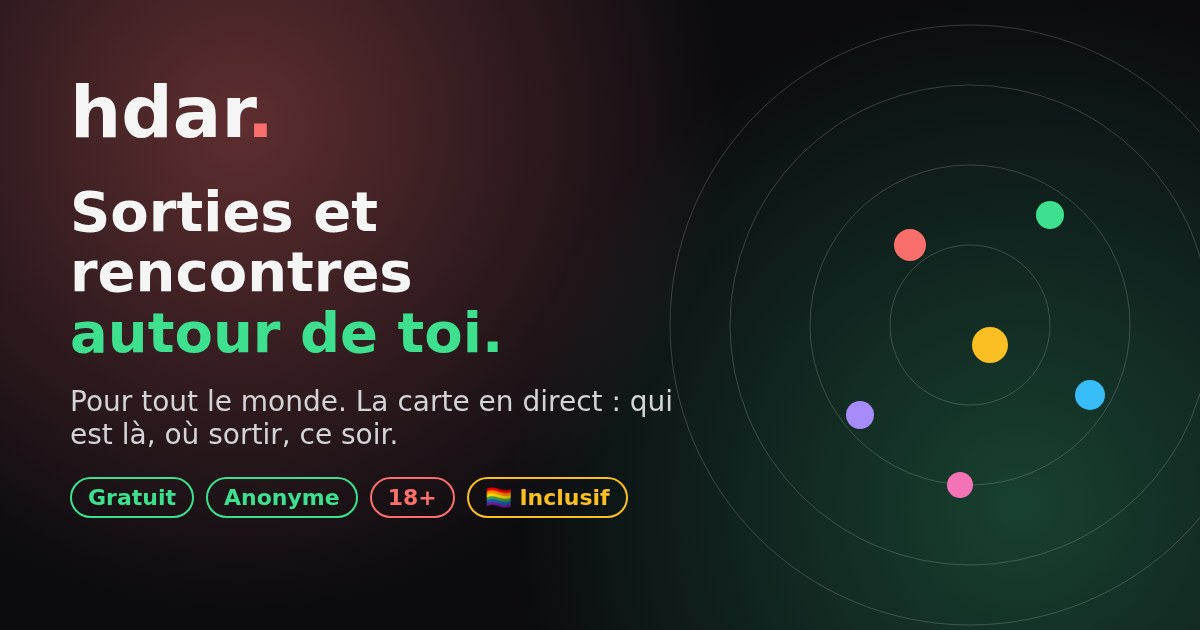
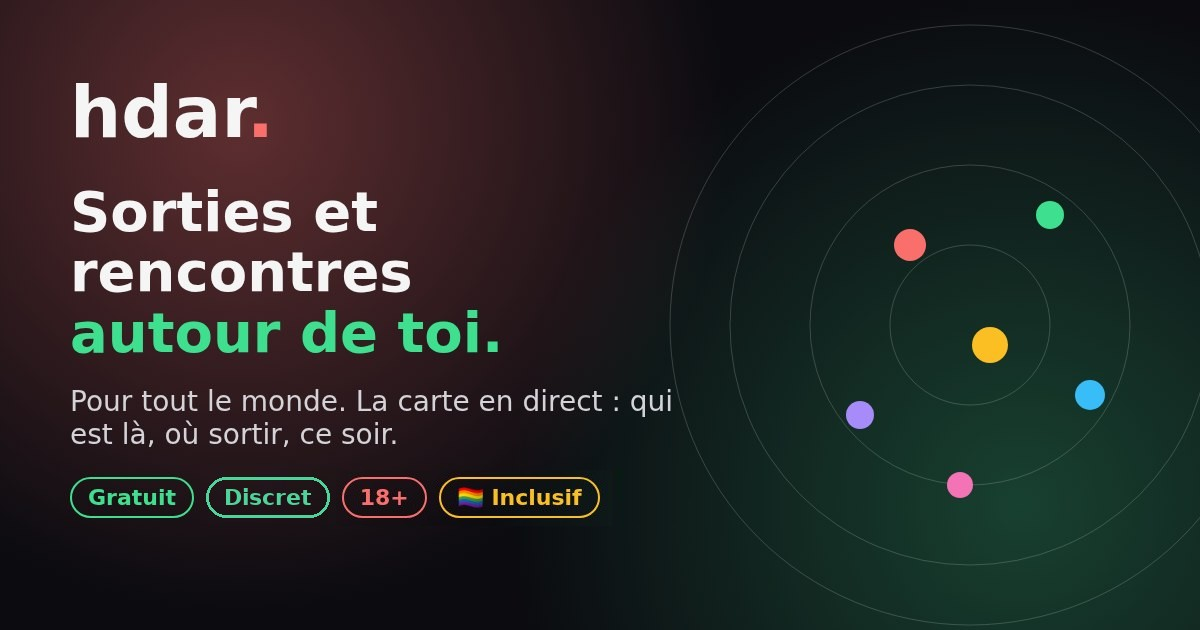
Provenance ?ref= (visites agrégées, profils, onglet admin) + aperçus de partage « Discret » (og.jpg?v=discret2, og-invite) — migration v77 non appliquée

Changed region(s): [[0.185, 0.754, 0.5242, 0.8444]]

diff --git a/src/components/hdar/admin-insights.tsx b/src/components/hdar/admin-insights.tsx
@@ -20,8 +20,7 @@ import {
   type AdminSalonMsg,
   type AdminVisitors,
   type Breakdown,
-  type VisitorRow,
-} from "@/lib/hdar/live";
+  type VisitorRow, adminRefs, type AdminRefs, type RefRow } from "@/lib/hdar/live";
 
 function useLoad<T>(load: () => Promise<T>, everyMs = 0) {
   const [data, setData] = useState<T | null>(null);
@@ -685,6 +684,71 @@ function AdminThread({ adminKey, a, b }: { adminKey: string; a: string; b: strin
           </div>
         </div>
       ))}
+    </div>
+  );
+}
+
+/** Provenance : visites arrivées par un lien ?ref=, profils créés et conversion, au total et par jour. */
+export function RefsTab({ adminKey }: { adminKey: string }) {
+  const [days, setDays] = useState(30);
+  const load = useCallback(() => adminRefs(adminKey, days), [adminKey, days]);
+  const { data, error } = useLoad<AdminRefs>(load, 60_000);
+  const conv = (r: RefRow) => (r.conv == null ? "—" : `${r.conv} %`);
+  const visits = (data?.total ?? []).reduce((n, r) => n + r.visits, 0);
+  const profiles = (data?.total ?? []).reduce((n, r) => n + r.profiles, 0);
+  return (
+    <div className="space-y-4">
+      <Seg value={days} onChange={setDays} options={[[1, "Aujourd'hui"], [7, "7 j"], [30, "30 j"], [90, "90 j"]]} />
+      <ErrorNote error={error} />
+      <p className="text-xs text-muted">
+        Liens du type hdar.chat/?ref=next1 (compatible avec &code=FIRST). 1 visite = 1 appareil arrivé par le lien, au plus 1 fois par jour.
+        Aucune IP ni identifiant d'appareil n'est enregistré ; un profil est rattaché à la 1re ref vue dans les 30 jours.
+      </p>
+      {data && (
+        <>
+          <div className="grid grid-cols-3 gap-2">
+            <Tile label="Visites" value={visits} />
+            <Tile label="Profils créés" value={profiles} />
+            <Tile label="Refs" value={data.total.length} hint={visits ? `${Math.round((1000 * profiles) / visits) / 10} % conversion` : undefined} />
+          </div>
+          <RefTable title="Total par ref" rows={data.total} conv={conv} />
+          <RefTable title="Par jour" rows={data.daily} conv={conv} day />
+        </>
+      )}
+    </div>
+  );
+}
+
+function RefTable({ title, rows, conv, day }: { title: string; rows: (RefRow & { day?: string })[]; conv: (r: RefRow) => string; day?: boolean }) {
+  return (
+    <div className="rounded-2xl border border-line bg-surface p-4">
+      <h3 className="mb-2 font-display font-bold">{title}</h3>
+      {rows.length === 0 ? (
+        <p className="text-sm text-muted">Aucune visite par lien ?ref= sur la période.</p>
+      ) : (
+        <table className="w-full text-sm">
+          <thead className="text-left text-xs text-muted">
+            <tr>
+              {day && <th className="py-1">Jour</th>}
+              <th className="py-1">Ref</th>
+              <th className="py-1 text-right">Visites</th>
+              <th className="py-1 text-right">Profils</th>
+              <th className="py-1 text-right">Conv.</th>
+            </tr>
+          </thead>
+          <tbody>
+            {rows.map((r) => (
+              <tr key={(r.day ?? "") + r.ref} className="border-t border-line/60">
+                {day && <td className="py-1.5 text-muted">{r.day ? new Date(`${r.day}T12:00:00`).toLocaleDateString("fr-FR", { day: "numeric", month: "short" }) : ""}</td>}
+                <td className="py-1.5 font-bold">{r.ref}</td>
+                <td className="py-1.5 text-right">{r.visits}</td>
+                <td className="py-1.5 text-right">{r.profiles}</td>
+                <td className="py-1.5 text-right">{conv(r)}</td>
+              </tr>
+            ))}
+          </tbody>
+        </table>
+      )}
     </div>
   );
 }

diff --git a/src/lib/hdar/source-ref.ts b/src/lib/hdar/source-ref.ts
@@ -1,0 +1,80 @@
+/**
+ * Provenance des liens partenaires : hdar.chat/?ref=next1 (compatible avec &code=FIRST, géré à part).
+ * La 1re ref vue est gardée 30 jours sur l'appareil (localStorage). Côté serveur : un simple compteur
+ * jour × ref (aucune IP, aucun identifiant d'appareil), puis la ref est rattachée au profil à sa création.
+ * Voir supabase/hdar_v77_ref_sources.sql.
+ */
+import { SUPABASE_KEY, SUPABASE_URL, accessToken } from "./session";
+
+const KEY = "hdar-src";
+const SENT = "hdar-src-visit";
+const DONE = "hdar-src-done";
+const TTL = 30 * 24 * 3600_000;
+const RE = /^[a-z0-9_-]{1,32}$/;
+
+type Stored = { ref: string; at: number };
+
+function read(): Stored | null {
+  try {
+    const v = JSON.parse(localStorage.getItem(KEY) || "null") as Stored | null;
+    if (!v || !RE.test(v.ref) || Date.now() - v.at > TTL) return null;
+    return v;
+  } catch {
+    return null;
+  }
+}
+
+/** Ref active (30 jours après la 1re visite), sinon null. */
+export const sourceRef = () => (typeof window === "undefined" ? null : read()?.ref ?? null);
+
+async function call(fn: string, args: Record<string, unknown>) {
+  const token = await accessToken();
+  const res = await fetch(`${SUPABASE_URL}/rest/v1/rpc/${fn}`, {
+    method: "POST",
+    headers: { apikey: SUPABASE_KEY, authorization: `Bearer ${token}`, "content-type": "application/json" },
+    body: JSON.stringify(args),
+    keepalive: true,
+  });
+  if (!res.ok) throw new Error(String(res.status));
+  return res.json().catch(() => null) as Promise<unknown>;
+}
+
+/** À l'arrivée : mémorise ?ref= (la 1re gagne pendant 30 jours) et compte 1 visite par jour et par appareil. */
+export function captureSourceRef() {
+  if (typeof window === "undefined") return;
+  try {
+    const q = new URLSearchParams(location.search);
+    // ?code=FIRST (ou autre code cadeau) est gardé aussi dès l'arrivée, avant l'écran 18+, comme dans growth.tsx.
+    const gc = q.get("code");
+    if (gc && /^[A-Za-z0-9-]{3,24}$/.test(gc)) localStorage.setItem("hdar-code", gc.toUpperCase());
+    const raw = (q.get("ref") || "").trim().toLowerCase().slice(0, 32);
+    let cur = read();
+    if (raw && RE.test(raw) && !cur) {
+      cur = { ref: raw, at: Date.now() };
+      localStorage.setItem(KEY, JSON.stringify(cur));
+      localStorage.removeItem(DONE);
+    }
+    if (!cur) return;
+    // Seulement les visites qui arrivent par un lien ?ref= (pas chaque retour sur le site).
+    if (!raw || raw !== cur.ref) return;
+    const day = new Date().toLocaleDateString("fr-CA", { timeZone: "Europe/Paris" });
+    const mark = `${day}:${cur.ref}`;
+    if (localStorage.getItem(SENT) === mark) return;
+    localStorage.setItem(SENT, mark);
+    void call("hdar_ref_visit", { p_ref: cur.ref }).catch(() => localStorage.removeItem(SENT));
+  } catch {
+    /* stockage indisponible : statistique facultative */
+  }
+}
+
+/** Une fois le profil créé : rattache la ref (réessayé à chaque ouverture tant que ça n'a pas marché). */
+export async function attachSourceRef() {
+  const ref = sourceRef();
+  if (!ref || localStorage.getItem(DONE) === ref) return;
+  try {
+    await call("hdar_ref_profile", { p_ref: ref });
+    localStorage.setItem(DONE, ref);
+  } catch {
+    /* profil pas encore créé */
+  }
+}

diff --git a/src/components/hdar/admin.tsx b/src/components/hdar/admin.tsx
@@ -28,11 +28,11 @@ import {
 import { Avatar } from "./avatar";
 import { Heat, Influencers, Monetization, Overview, TopPlaces, Week } from "./admin-analytics";
 import { CommentsTab, GrowthTab, PricingTab, RoiTab } from "./admin-business";
-import { ConversationsTab, LiveNowTab, RatingsSummary, UserReportsAndIps, VisitorsTab } from "./admin-insights";
+import { ConversationsTab, LiveNowTab, RatingsSummary, RefsTab, UserReportsAndIps, VisitorsTab } from "./admin-insights";
 import type { Influencer } from "@/lib/hdar/live";
 
 const KEY_STORE = "hdar-admin-key";
-type Tab = "growth" | "roi" | "comments" | "pricing" | "overview" | "heat" | "week" | "top" | "influencers" | "money" | "stats" | "photos" | "reports" | "bans" | "contacts" | "places" | "support" | "users" | "emails" | "progifts" | "codes" | "partners" | "revenus" | "ambassadeurs" | "live" | "visitors" | "convos" | "direct" | "annonces";
+type Tab = "growth" | "roi" | "comments" | "pricing" | "overview" | "heat" | "week" | "top" | "influencers" | "money" | "stats" | "photos" | "reports" | "bans" | "contacts" | "places" | "support" | "users" | "emails" | "progifts" | "codes" | "partners" | "revenus" | "ambassadeurs" | "live" | "visitors" | "refs" | "convos" | "direct" | "annonces";
 
 function readKey() {
   try {
@@ -189,6 +189,7 @@ function Dashboard({ adminKey, onLogout }: { adminKey: string; onLogout: () => v
           </>
         )}
         {tab === "visitors" && <VisitorsTab adminKey={adminKey} />}
+        {tab === "refs" && <RefsTab adminKey={adminKey} />}
         {tab === "convos" && <ConversationsTab adminKey={adminKey} onOpen={setUserId} />}
         {tab === "direct" && <LiveNowTab adminKey={adminKey} onOpen={setUserId} />}
         {tab === "influencers" && (
@@ -224,7 +225,7 @@ function Dashboard({ adminKey, onLogout }: { adminKey: string; onLogout: () => v
 }
 
 const NAV_GROUPS: [string, [Tab, string][]][] = [
-  ["Audience", [["direct", "En direct"], ["overview", "Vue d'ensemble"], ["visitors", "Visiteurs"], ["users", "Utilisateurs"], ["stats", "Temps réel"], ["heat", "Carte de chaleur"], ["week", "Horaires"], ["influencers", "Influenceurs"]]],
+  ["Audience", [["direct", "En direct"], ["overview", "Vue d'ensemble"], ["visitors", "Visiteurs"], ["refs", "Provenance"], ["users", "Utilisateurs"], ["stats", "Temps réel"], ["heat", "Carte de chaleur"], ["week", "Horaires"], ["influencers", "Influenceurs"]]],
   ["Conversations & lieux", [["convos", "Conversations"], ["comments", "Avis & notes"], ["top", "Top lieux"], ["roi", "ROI lieux"], ["places", "Lieux proposés"]]],
   ["Modération", [["reports", "Signalements"], ["annonces", "Annonces"], ["photos", "Photos"], ["bans", "Bannis"], ["contacts", "Messages"], ["support", "Support · rattacher"]]],
   ["Business", [["revenus", "Revenus"], ["growth", "Croissance & revenus"], ["money", "Boosts & partenaires"], ["partners", "Partenaires"], ["pricing", "Tarifs"], ["codes", "Codes cadeaux"], ["progifts", "Cadeaux pro"], ["emails", "Emails"], ["ambassadeurs", "Ambassadeurs"], ["live", "Live (qualité)"]]],

diff --git a/src/components/hdar/growth.tsx b/src/components/hdar/growth.tsx
@@ -7,6 +7,8 @@ import { Link } from "@tanstack/react-router";
 import { toast } from "sonner";
 import { codeRedeem, myRef, refClaim, shareReward, surprise } from "@/lib/hdar/live";
 import { usePremium } from "@/lib/hdar/premium";
+import { attachSourceRef } from "@/lib/hdar/source-ref";
+import { useHdar } from "@/lib/hdar/store";
 
 const REF_KEY = "hdar-ref";
 /** Mémorise ?r=CODE à l'arrivée. */
@@ -190,11 +192,15 @@ export function SurprisePopup() {
   useEffect(() => {
     captureRef(); captureAmb();
     const t = setTimeout(() => {
-      void tryRefClaim(); void tryAmbAttach();
+      void tryRefClaim(); void tryAmbAttach(); void attachSourceRef();
       if (usePremium.getState().premium) return;
       void surprise().then((r) => { if (r) { setS(r); void usePremium.getState().refresh(); } }).catch(() => undefined);
     }, 9000);
-    return () => clearTimeout(t);
+    // Profil créé pendant la visite : rattache la provenance ?ref= quelques secondes après.
+    const off = useHdar.subscribe((st, prev) => {
+      if (st.me.onboarded && !prev.me.onboarded) window.setTimeout(() => void attachSourceRef(), 5000);
+    });
+    return () => { clearTimeout(t); off(); };
   }, []);
   const demo = import.meta.env.DEV && typeof location !== "undefined" ? new URLSearchParams(location.search).get("reveal") : null;
   if (demo) return <GiftPopup title="Cadeau de hdar 🎁" body={demo === "premium" ? "Tu reçois 7 jours de hdar+." : demo === "boost" ? "Tu reçois un boost de 24 h." : "Tu reçois 50 cœurs."} nudge={demo === "premium"} onClose={() => undefined} />;

diff --git a/supabase/functions/hdar-mail/index.ts b/supabase/functions/hdar-mail/index.ts
@@ -43,7 +43,7 @@ export const mail = (body: string, unsub: string, tpl: Tpl = "news", o: { code?:
 <tr><td style="padding:20px 26px 6px;font-size:16px;line-height:1.6">${esc(body).replace(/\n/g, "<br>")}${giftBlock}</td></tr>
 <tr><td style="padding:18px 24px 30px;text-align:center"><a href="${href}" style="display:inline-block;background:${C.coral};color:${C.night};font-weight:800;font-size:17px;text-decoration:none;border-radius:999px;padding:16px 34px">${h.cta} →</a></td></tr>
 </table>
-<p style="text-align:center;font-size:11px;color:#71717a;margin-top:16px;line-height:1.5">hdar. · sorties et rencontres autour de toi, pour tout le monde · gratuit, anonyme, 18+<br>Tu reçois cet email car tu as coché « Recevoir les nouveautés hdar ». <a href="${unsub}" style="color:${C.muted}">Se désinscrire</a></p>
+<p style="text-align:center;font-size:11px;color:#71717a;margin-top:16px;line-height:1.5">hdar. · sorties et rencontres autour de toi, pour tout le monde · gratuit, discret, 18+<br>Tu reçois cet email car tu as coché « Recevoir les nouveautés hdar ». <a href="${unsub}" style="color:${C.muted}">Se désinscrire</a></p>
 </div></body></html>`;
 };
 

diff --git a/src/routes/index.tsx b/src/routes/index.tsx
@@ -12,11 +12,11 @@ export const Route = createFileRoute("/")({
         ? [
             { property: "og:title", content: "Viens sur hdar. : 3 jours hdar+ offerts 🎁" },
             { property: "og:description", content: "La carte des sorties et rencontres en direct, pour tout le monde, 100 % discret. Ton ami t'invite : 3 jours de hdar+ offerts pour vous deux." },
-            { property: "og:image", content: `${SITE_URL}/og-invite.png` },
+            { property: "og:image", content: `${SITE_URL}/og-invite.png?v=discret2` },
             { property: "og:image:width", content: "1200" },
             { property: "og:image:height", content: "630" },
             { name: "twitter:card", content: "summary_large_image" },
-            { name: "twitter:image", content: `${SITE_URL}/og-invite.png` },
+            { name: "twitter:image", content: `${SITE_URL}/og-invite.png?v=discret2` },
           ]
         : []),
       { title: "hdar. — Sorties et rencontres autour de toi, pour tout le monde" },

diff --git a/src/routes/annonces.$id.tsx b/src/routes/annonces.$id.tsx
@@ -13,7 +13,7 @@ export const Route = createFileRoute("/annonces/$id")({
       meta: [
         { title: `${title} — hdar.` }, { name: "robots", content: "noindex, nofollow, noarchive" }, { name: "description", content: desc },
         { name: "page-own-og", content: "1" }, { property: "og:title", content: title }, { property: "og:description", content: desc },
-        { property: "og:image", content: `${SITE_URL}/og.jpg` }, { property: "og:type", content: "website" }, { name: "twitter:card", content: "summary_large_image" },
+        { property: "og:image", content: `${SITE_URL}/og.jpg?v=discret2` }, { property: "og:type", content: "website" }, { name: "twitter:card", content: "summary_large_image" },
       ],
     };
   },

diff --git a/src/routes/__root.tsx b/src/routes/__root.tsx
@@ -3,12 +3,16 @@ import { AuthProvider } from "@/lib/auth/provider";
 import { PreviewHostBridge } from "@/components/preview-host-bridge";
 import { useEffect } from "react";
 import { rememberLanding } from "@/lib/hdar/track";
+import { captureSourceRef } from "@/lib/hdar/source-ref";
 import { FounderCelebration, LaunchOfferSheet, WelcomeFirst } from "@/components/hdar/launch-offer";
 import appCss from "../styles.css?url";
 
 /** Mémorise la page d'arrivée et la provenance (statistique anonyme, admin « Visiteurs »). */
 function LandingMemo() {
-  useEffect(() => rememberLanding(), []);
+  useEffect(() => {
+    rememberLanding();
+    captureSourceRef();
+  }, []);
   return null;
 }
 

diff --git a/src/lib/hdar/live.ts b/src/lib/hdar/live.ts
@@ -1457,3 +1457,8 @@ export function visitorPing(lat: number, lng: number) {
 }
 export const hideOfflineGet = () => rpc<boolean>("hdar_map_hide_offline_get", {});
 export const hideOfflineSet = (on: boolean) => rpc("hdar_map_hide_offline_set", { p_on: on });
+
+// Provenance des liens partenaires ?ref= (v77) -------------------------------------------------
+export type RefRow = { ref: string; visits: number; profiles: number; conv: number | null };
+export type AdminRefs = { days: number; total: RefRow[]; daily: (RefRow & { day: string })[] };
+export const adminRefs = (key: string, days: number) => rpc<AdminRefs>("hdar_admin_refs", { p_key: key, p_days: days });

diff --git a/src/routes/fr/sortir-rencontrer-{$ville}.tsx b/src/routes/fr/sortir-rencontrer-{$ville}.tsx
@@ -12,7 +12,7 @@ export const Route = createFileRoute("/fr/sortir-rencontrer-{$ville}")({
       local?.description ??
       `Sorties et rencontres à ${city.name}, pour tout le monde : vois sur la carte qui est connecté et où sortir autour de toi, discute dans le chat du quartier, photos, vocaux et vidéo. Gratuit, sans inscription, 18+.`;
     const title = `Sortir et rencontrer à ${city.name} : qui est autour, en direct — hdar.`;
-    const og = `${SITE_URL}${local?.og ?? "/og.jpg"}`;
+    const og = `${SITE_URL}${local?.og ?? "/og.jpg?v=discret2"}`;
     return {
       meta: [
         { title },

diff --git a/src/components/hdar/seo-pages.tsx b/src/components/hdar/seo-pages.tsx
@@ -8,7 +8,7 @@ export const hash = (s: string) => { let h = 2166136261; for (const ch of s) h =
 export const pick = <T,>(seed: string, arr: T[]) => arr[hash(seed) % arr.length];
 
 export function seoHead(o: { title: string; desc: string; path: string; og?: string; noindex?: boolean }) {
-  const url = SITE_URL + o.path, og = SITE_URL + (o.og ?? "/og.jpg");
+  const url = SITE_URL + o.path, og = SITE_URL + (o.og ?? "/og.jpg?v=discret2");
   return {
     meta: [
       { title: o.title }, { name: "description", content: o.desc }, { name: "page-own-og", content: "1" },
